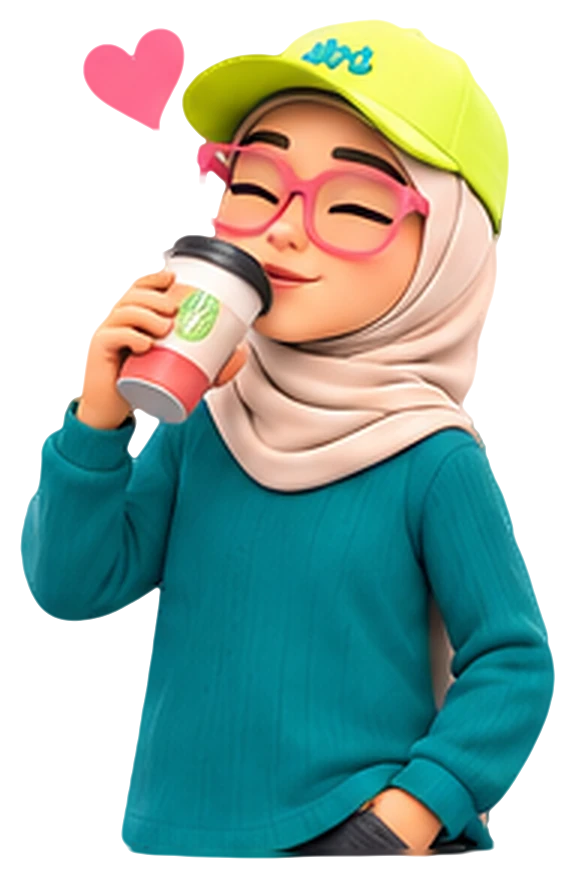
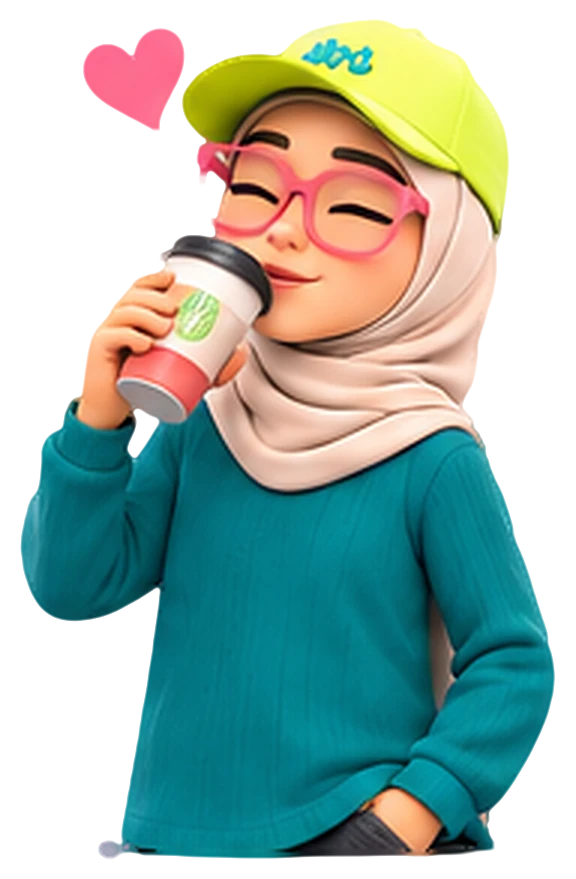
Poses: repair sneaker soles, remove floor-shadow fringe; tighter hero ground shadow

diff --git a/components/Hero.tsx b/components/Hero.tsx
@@ -78,7 +78,7 @@ export default function Hero() {
             <div className="relative h-full w-full">
               <div
                 aria-hidden="true"
-                className="absolute -bottom-3 left-1/2 h-8 w-[60%] -translate-x-1/2 rounded-[50%]"
+                className="absolute -bottom-2 left-1/2 h-6 w-[52%] -translate-x-1/2 rounded-[50%]"
                 style={{ background: "radial-gradient(closest-side, rgba(0,0,0,0.38), rgba(0,0,0,0))" }}
               />
               {HERO_VIDEO ? (
